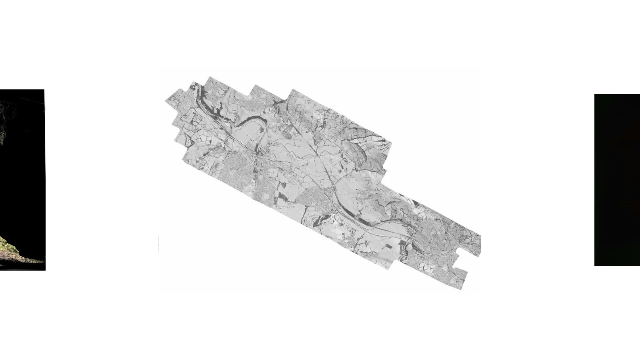
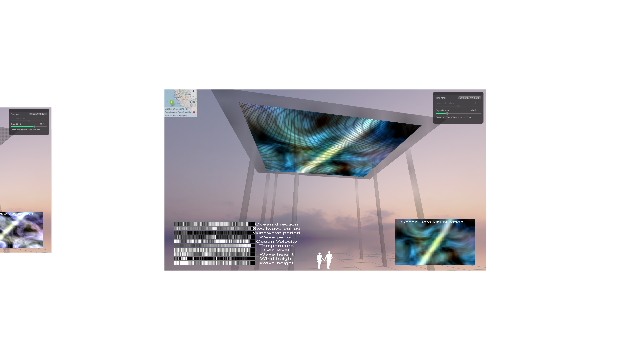
Add files via upload

diff --git a/index.html b/index.html
@@ -5,7 +5,7 @@
     <style>
         body {
             margin: 0;
-            background-color: #000;
+            background-color: transparent;
             color: #fff;
             font-family: Helvetica, Arial, sans-serif;
             overflow: hidden; /* disable scrolling / rubberband effect on mobile */